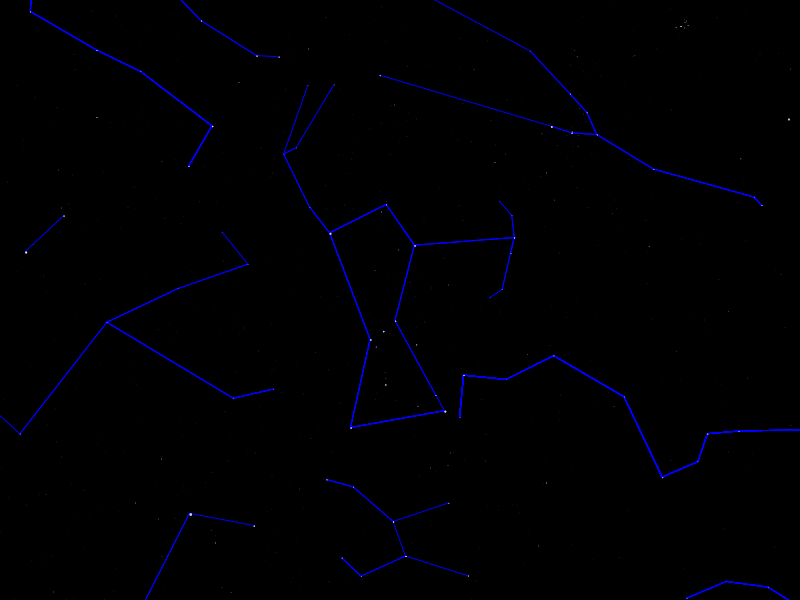
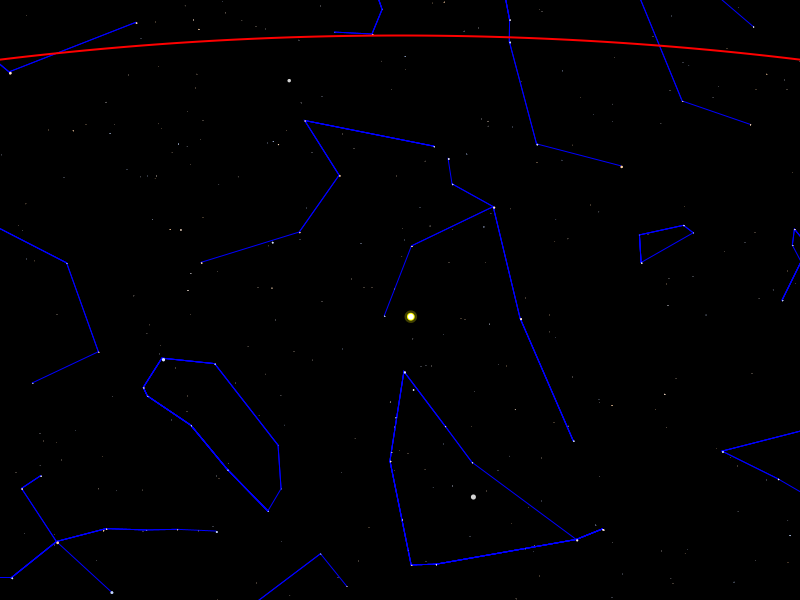
fixed some issue (Sun positon + fill, .. )

diff --git a/src/ch/epfl/rigel/gui/SkyCanvasPainter.java b/src/ch/epfl/rigel/gui/SkyCanvasPainter.java
@@ -10,11 +10,16 @@ import ch.epfl.rigel.coordinates.EquatorialCoordinates;
 import ch.epfl.rigel.coordinates.StereographicProjection;
 import ch.epfl.rigel.math.ClosedInterval;
 import javafx.geometry.Point2D;
+import javafx.geometry.VPos;
 import javafx.scene.canvas.Canvas;
 import javafx.scene.canvas.GraphicsContext;
 import javafx.scene.paint.Color;
+import javafx.scene.shape.FillRule;
+import javafx.scene.text.TextAlignment;
 import javafx.scene.transform.Transform;
 
+import javax.swing.*;
+import javax.swing.plaf.basic.BasicTabbedPaneUI;
 import java.util.List;
 import java.util.Set;
 
@@ -36,16 +41,11 @@ public class SkyCanvasPainter
         ctx = canvas.getGraphicsContext2D();
     }
 
-    private static double angularSizeDiameter( double angularSize )
-    {
-        return 2 * Math.tan( angularSize / 4 );
-    }
-
-    private static double magnitudeDiameter( double magnitude )
+    private static double magnitudeDiameter( double magnitude, StereographicProjection projection )
     {
         double clippedMagnitude = MAGNITUDE_INTERVAL.clip( magnitude );
         double sizeFactor = ( 99 - 17 * clippedMagnitude ) / 140;
-        return sizeFactor * 2 * Math.tan( Angle.ofDeg( 0.5 ) / 4 );
+        return sizeFactor * 2 * projection.applyToAngle( Angle.ofDeg( 0.5 ) );
     }
 
     public void clear()
@@ -53,6 +53,14 @@ public class SkyCanvasPainter
         ctx.setFill( Color.BLACK );
         ctx.fillRect( 0, 0, canvas.getWidth(), canvas.getHeight() );
         ctx.fill();
+    }
+
+    public void drawSky( ObservedSky sky, StereographicProjection projection, Transform planeToCanvas )
+    {
+        this.drawStars( sky, projection, planeToCanvas );
+        this.drawPlanets( sky, projection, planeToCanvas );
+        this.drawSun( sky, projection, planeToCanvas );
+        this.drawMoon( sky, projection, planeToCanvas );
     }
 
 
@@ -110,7 +118,7 @@ public class SkyCanvasPainter
 
             int roundedColor = ( ( ( star.colorTemperature() + 499 ) / 500 ) * 500 ); // round to the nearest 500
             Color starColor = BlackBodyColor.colorForTemperature( roundedColor );
-            double starDiameter = magnitudeDiameter( star.magnitude() );
+            double starDiameter = magnitudeDiameter( star.magnitude(), projection );
             double projectedDiameter = projection.applyToAngle( starDiameter );
             double finalDiameter = planeToCanvas.deltaTransform( projectedDiameter, 0 ).getX();
 
@@ -119,8 +127,6 @@ public class SkyCanvasPainter
             ctx.setFill( starColor );
             ctx.fillOval( canvasPoint.getX(), canvasPoint.getY(), finalDiameter, finalDiameter );
         }
-
-        System.out.println( canvas.getWidth() + " " + canvas.getHeight() );
     }
 
     public void drawPlanets( ObservedSky sky, StereographicProjection projection, Transform planeToCanvas )
@@ -130,49 +136,80 @@ public class SkyCanvasPainter
         int index = 0;
         for ( Planet planet : planets )
         {
-            double planetDiameter = magnitudeDiameter( planet.magnitude() );
+            Point2D planetPoint = planeToCanvas.transform( planetCartesianCoordinates[ index ], planetCartesianCoordinates[ index + 1 ] );
+
+            double planetDiameter = magnitudeDiameter( planet.magnitude(), projection );
             double projectedDiameter = projection.applyToAngle( planetDiameter );
             double finalDiameter = planeToCanvas.deltaTransform( projectedDiameter, 0 ).getX();
-            Point2D planetPoint = planeToCanvas.transform( planetCartesianCoordinates[ index ], planetCartesianCoordinates[ index + 1 ] );
-            index += 2;
+            double radius = finalDiameter / 2;
 
+            System.out.println(planetPoint + " " + finalDiameter);
+
+            // delta transform ???
             ctx.setFill( LIGHTGRAY_COLOR );
-            ctx.fillOval( planetPoint.getX(), planetPoint.getY(), finalDiameter, finalDiameter );
+            ctx.fillOval( planetPoint.getX() - radius, planetPoint.getY() - radius, finalDiameter, finalDiameter );
+
+            index += 2;
         }
     }
 
     public void drawSun( ObservedSky sky, StereographicProjection projection, Transform planeToCanvas )
     {
-        Sun sun = sky.sun();
-        double sunDiameter = magnitudeDiameter( sun.magnitude() );
-        double projectedDiameter = projection.applyToAngle( sunDiameter );
-        double finalDiameter = planeToCanvas.deltaTransform( projectedDiameter, 0 ).getX();
-        Point2D sunPoint = planeToCanvas.transform( sky.sunPosition().x(), sky.sunPosition().y() );
+        CartesianCoordinates sunPos = sky.sunPosition();
+        Point2D sunPoint = planeToCanvas.transform( sunPos.x(), sunPos.y() );
 
-        ctx.setFill( Color.color( YELLOW_COLOR.getRed(), YELLOW_COLOR.getGreen(), YELLOW_COLOR.getBlue(), 0.25 ) );
-        ctx.fillOval( sunPoint.getX(), sunPoint.getY(), finalDiameter * 2.2, finalDiameter * 2.2 );
+        double sunDiameter = projection.applyToAngle( Angle.ofDeg( 0.5 ) );
+        double finalDiameter = planeToCanvas.deltaTransform( sunDiameter, 0 ).getX();
+
+        ctx.setFill( YELLOW_COLOR.deriveColor( 0, 1, 1, 0.25 ) );
+        double haloRadius = ( finalDiameter * 2.2 ) / 2;
+        ctx.fillOval( sunPoint.getX() - haloRadius, sunPoint.getY() - haloRadius, finalDiameter * 2.2, finalDiameter * 2.2 );
 
         ctx.setFill( YELLOW_COLOR );
-        ctx.fillOval( sunPoint.getX(), sunPoint.getY(), finalDiameter + 2, finalDiameter + 2 );
+        double yellowRadius = ( finalDiameter + 2 ) / 2;
+        ctx.fillOval( sunPoint.getX() - yellowRadius, sunPoint.getY() - yellowRadius, finalDiameter + 2, finalDiameter + 2 );
 
         ctx.setFill( WHITE_COLOR );
-        ctx.fillOval( sunPoint.getX(), sunPoint.getY(), finalDiameter, finalDiameter );
+        double whiteRadius = finalDiameter / 2;
+        ctx.fillOval( sunPoint.getX() - whiteRadius, sunPoint.getY() - whiteRadius, finalDiameter, finalDiameter );
 
     }
 
     public void drawMoon( ObservedSky sky, StereographicProjection projection, Transform planeToCanvas )
     {
         Moon moon = sky.moon();
-        double moonDiameter = magnitudeDiameter( moon.magnitude() );
+        CartesianCoordinates moonPos = sky.moonPosition();
+        Point2D moonPoint = planeToCanvas.transform( moonPos.x(), moonPos.y() );
+        // System.out.println(moonPoint);
+
+        double moonDiameter = magnitudeDiameter( moon.magnitude(), projection );
         double projectedDiameter = projection.applyToAngle( moonDiameter );
         double finalDiameter = planeToCanvas.deltaTransform( projectedDiameter, 0 ).getX();
-        Point2D moonPoint = planeToCanvas.transform( sky.moonPosition().x(), sky.moonPosition().y() );
+        double radius = finalDiameter / 2;
 
+        // System.out.println(finalDiameter);
         ctx.setFill( WHITE_COLOR );
-        ctx.fillOval( moonPoint.getX(), moonPoint.getY(), finalDiameter, finalDiameter );
+        ctx.fillOval( moonPoint.getX() - radius, moonPoint.getY() - radius, finalDiameter, finalDiameter );
     }
 
-    public void drawHorizon( StereographicProjection projection )
+    public void drawHorizon( StereographicProjection projection, HorizontalCoordinates projCenter, Transform planeToCanvas )
     {
+        HorizontalCoordinates hor = HorizontalCoordinates.ofDeg( 0, 0 );
+        CartesianCoordinates center = projection.circleCenterForParallel( hor );
+        Point2D transformedCenter = planeToCanvas.transform( center.x(), center.y() );
+        double radius = projection.circleRadiusForParallel( hor );
+        double transformedRadius = Math.abs( planeToCanvas.deltaTransform( radius, 0 ).getX() );
+
+        // System.out.println(transformedCenter + " " + transformedRadius);
+        ctx.setStroke( RED_COLOR );
+        ctx.setLineWidth( 2 );
+        ctx.strokeOval(
+                transformedCenter.getX() - transformedRadius,
+                transformedCenter.getY() - transformedRadius,
+                transformedRadius * 2, transformedRadius * 2 );
+
+        ctx.setTextAlign( TextAlignment.CENTER );
+        ctx.setTextBaseline( VPos.TOP );
+        // System.out.println( projCenter.azOctantName( "N", "E", "S", "W" ) );
     }
 }

diff --git a/test/ch/epfl/sigcheck_part8/DrawSKy.java b/test/ch/epfl/sigcheck_part8/DrawSKy.java
@@ -47,31 +47,29 @@ public final class DrawSKy extends Application
             builder.loadFrom( hs, AsterismLoader.INSTANCE );
             StarCatalogue catalogue = builder.build();
 
-            ZonedDateTime when =
-                    ZonedDateTime.parse( "2020-02-17T20:15:00+01:00" );
-            GeographicCoordinates where =
-                    GeographicCoordinates.ofDeg( 6.57, 46.52 );
-            HorizontalCoordinates projCenter =
-                    HorizontalCoordinates.ofDeg( 180, 45 );
-            StereographicProjection projection =
-                    new StereographicProjection( projCenter );
-            ObservedSky sky =
-                    new ObservedSky( when, where, projection, catalogue );
+            ZonedDateTime when = ZonedDateTime.parse( "2020-02-17T20:15:00+01:00" );
+            GeographicCoordinates where = GeographicCoordinates.ofDeg( 6.57, 46.52 );
+            // DEFAULT : HorizontalCoordinates.ofDeg( 180, 45 );
+            // SUN : HorizontalCoordinates.ofDeg(277, -23);
+            // MOON : HorizontalCoordinates.ofDeg(3.7, -65);
+            // VIEW ALL :  HorizontalCoordinates.ofDeg(0, 90);
+            // NORTH AT BOTTOM : HorizontalCoordinates.ofDeg(0, 23);
+            HorizontalCoordinates projCenter = HorizontalCoordinates.ofDeg(277, -23);
+            StereographicProjection projection = new StereographicProjection( projCenter );
+            ObservedSky sky = new ObservedSky( when, where, projection, catalogue );
 
             Canvas canvas = new Canvas( 800, 600 );
+            // DEFAULT : Transform.affine( 1300, 0, 0, -1300, 400, 300 );
+            // VIEW ALL : Transform.affine(260, 0, 0, -260, 400, 300);
             Transform planeToCanvas = Transform.affine( 1300, 0, 0, -1300, 400, 300 );
             SkyCanvasPainter painter = new SkyCanvasPainter( canvas );
 
             painter.clear();
-            painter.drawStars( sky, projection, planeToCanvas );
-            painter.drawPlanets( sky, projection, planeToCanvas );
-            painter.drawSun( sky, projection, planeToCanvas );
-            painter.drawMoon( sky, projection, planeToCanvas );
+            painter.drawSky( sky, projection, planeToCanvas );
+            painter.drawHorizon( projection, projCenter, planeToCanvas );
 
-            WritableImage fxImage =
-                    canvas.snapshot( null, null );
-            BufferedImage swingImage =
-                    SwingFXUtils.fromFXImage( fxImage, null );
+            WritableImage fxImage = canvas.snapshot( null, null );
+            BufferedImage swingImage = SwingFXUtils.fromFXImage( fxImage, null );
             ImageIO.write( swingImage, "png", new File( "sky.png" ) );
         }
         Platform.exit();

diff --git a/src/ch/epfl/rigel/coordinates/StereographicProjection.java b/src/ch/epfl/rigel/coordinates/StereographicProjection.java
@@ -54,7 +54,6 @@ public final class StereographicProjection implements Function<HorizontalCoordin
     }
 
     /**
-     *
      * @param parallel
      * @return : the radius of the circle corresponding to the projection of the parallel passing through the coordinate point hor
      */
